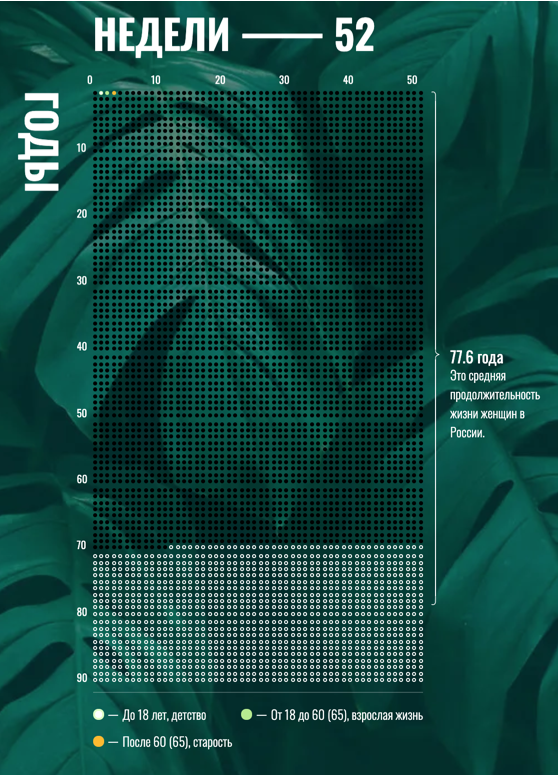
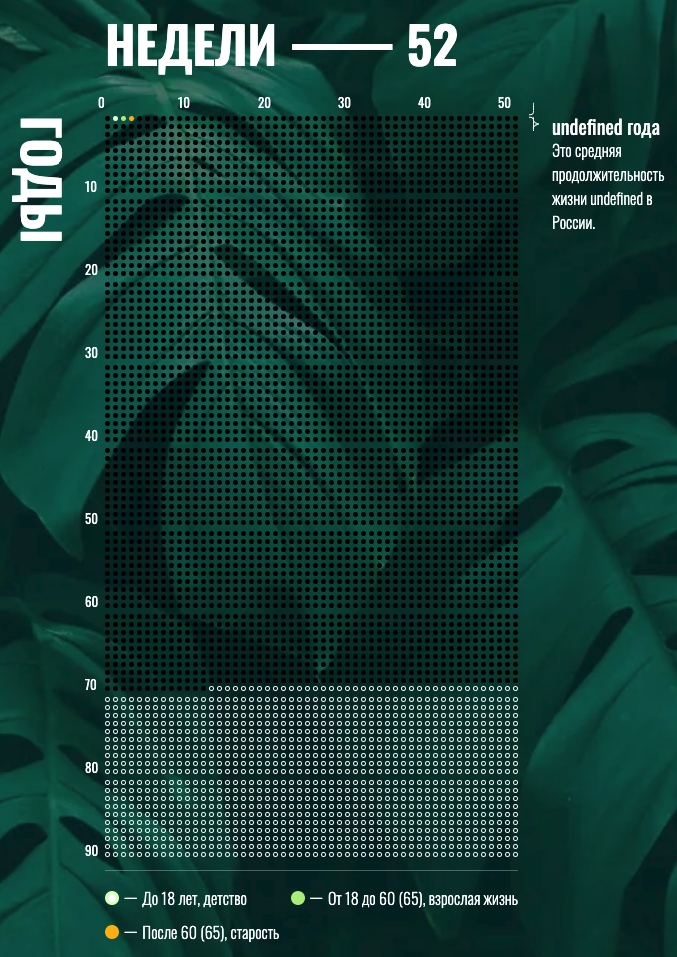
Fixes

diff --git a/talk/README.md b/talk/README.md
@@ -58,9 +58,9 @@ let genderName;
 напишите присваивание переменным `middleAge` и `genderName`, подходящие по смыслу значения из коментариев (67.5 и 'мужчин').
 
 ## Задача №3
-1. Создайте переменную testGenderNameAndMiddleAge
-2. Присвойте переменной результат склейки переменных  middleAge, genderName, используйте тире в качестве разделителя (для склейки используйте оператор + )
-3. Выведите в консоль переменную testGenderNameAndMiddleAge
+1. Создайте переменную `testGenderNameAndMiddleAge`
+2. Присвойте переменной результат склейки переменных  `middleAge`, `genderName`, используйте тире в качестве разделителя (для склейки используйте оператор `+` )
+3. Выведите в консоль переменную `testGenderNameAndMiddleAge`
 
 Теперь вычисления должны быть правильными. Проверим это!
 1. Нажмите на кнопку `Run`.

diff --git a/meet/README.md b/meet/README.md
@@ -60,3 +60,5 @@ livedWeeks = Math.floor((today - birthDate) / 1000 / 60 / 0 / 0 / 7);
 4. Если все задания выполнены верно, то таблица будет выглядеть так:
 
 ![Результат первого домашнего задания](../assets/result.png)
+
+Странная конструкция с `undefined` справа от таблицы — это нормально. Мы исправим этот момент в следующем домашнем задании.
